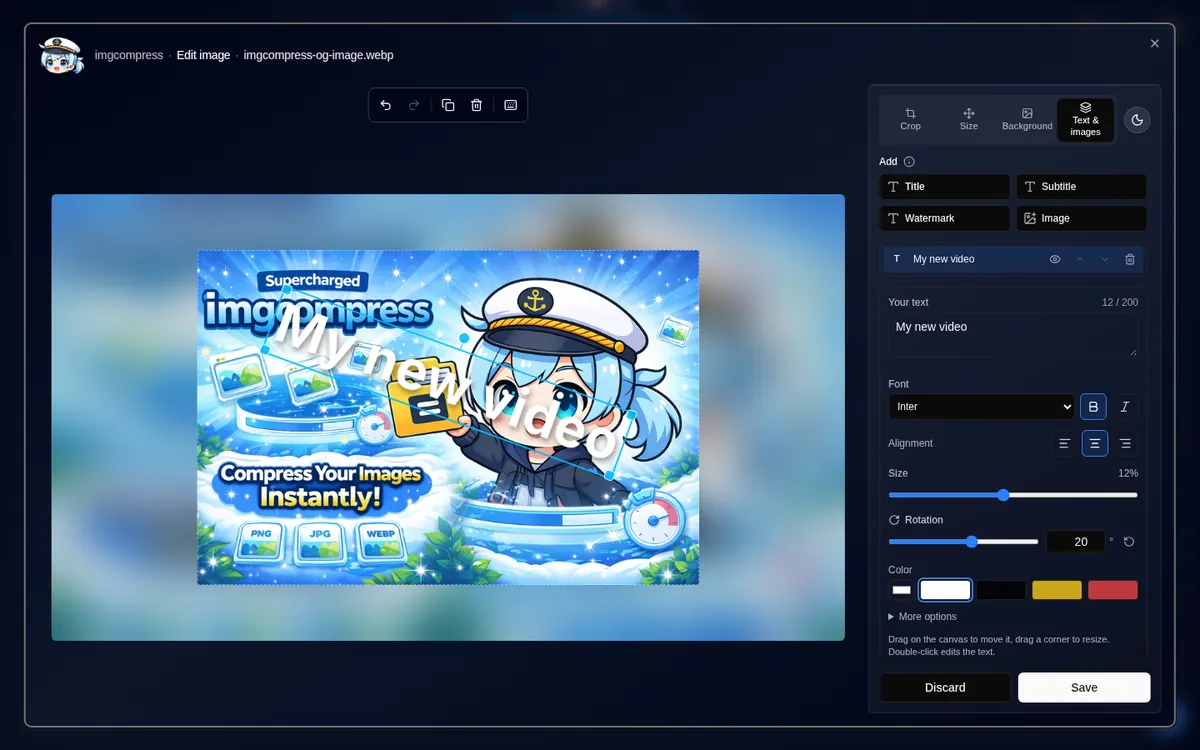
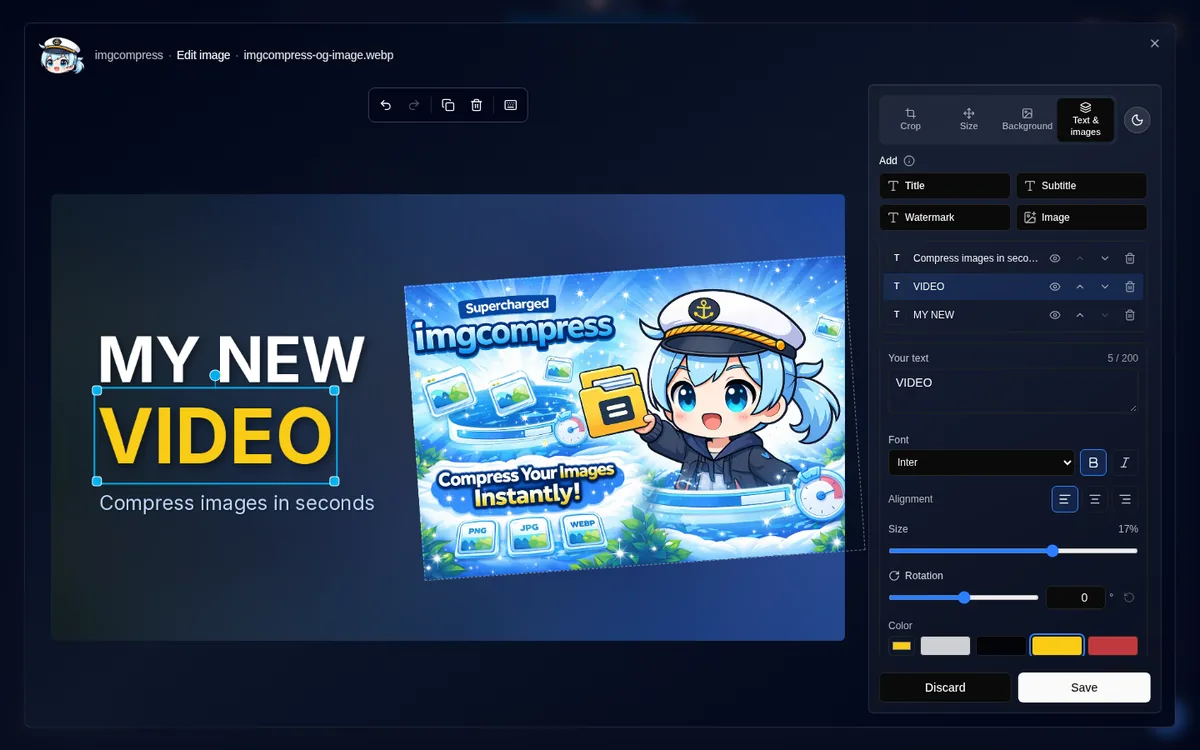
Show a cleaner thumbnail in the README
The title sits next to the picture instead of over the face.

diff --git a/ReadMe.md b/ReadMe.md
@@ -96,7 +96,7 @@ Built for people, homelab enthusiasts, and anyone who values privacy and owns th
 
 ImgCompress now has a real image editor in the browser, plus a few things people kept asking for. Each item links to a short guide with screenshots.
 
-<img src="images/web-ui/web-ui-editor-text.webp" alt="ImgCompress image editor: a thumbnail with a tilted title on a blurred background, Text & images tab open" width="100%" />
+<img src="images/web-ui/web-ui-editor-text.webp" alt="ImgCompress image editor: a YouTube thumbnail with a bold title next to the picture, Text & images tab open" width="100%" />
 
 - **[Image editor](https://imgcompress.karimzouine.com/docs/image-editor):** crop, pick an exact size, add a background, text or a logo, and rotate anything. Undo, keyboard shortcuts and touch on tablets included.
 - **[YouTube thumbnails](https://imgcompress.karimzouine.com/docs/youtube-thumbnail):** presets for YouTube, Shorts and stories, Instagram, X, link previews, GitHub, Pinterest, Full HD, 2K and 4K.
